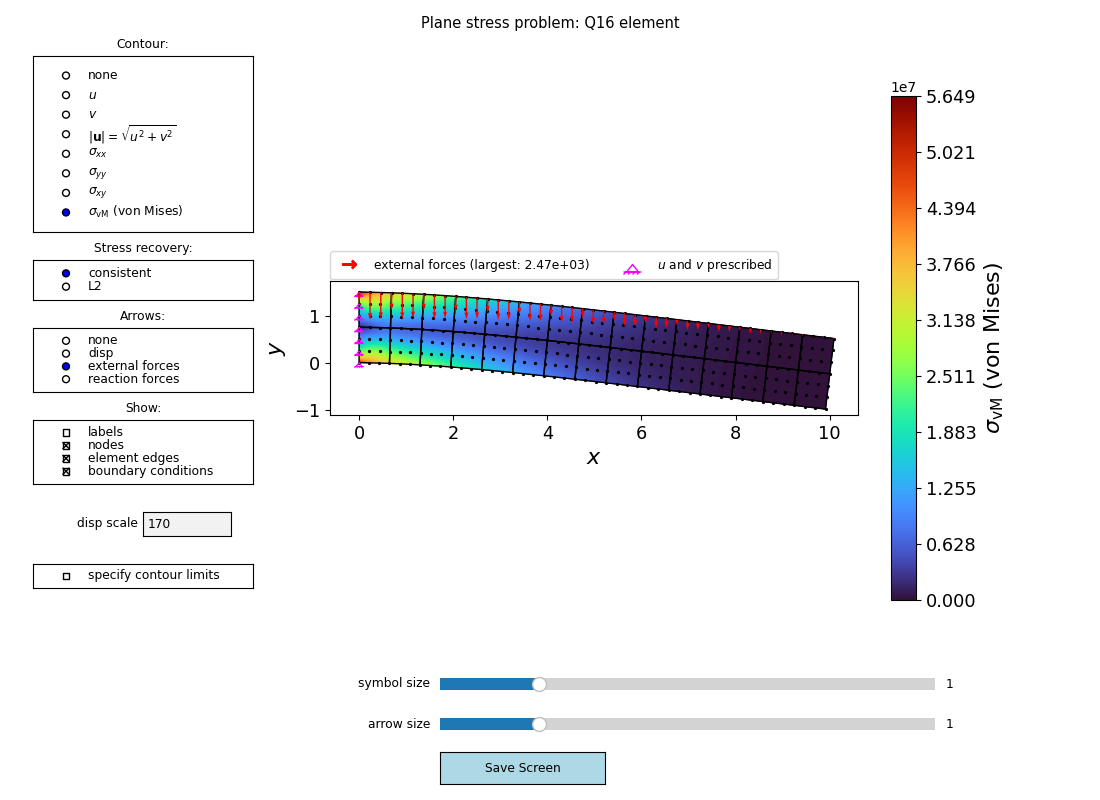
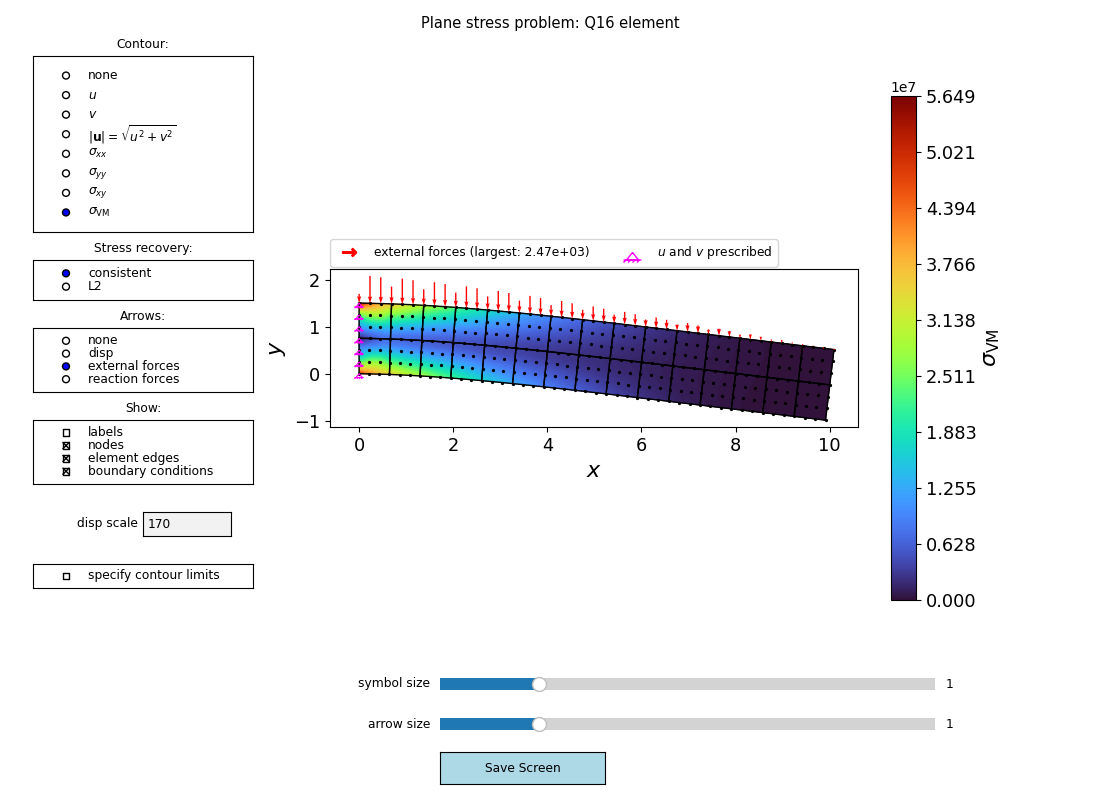
Update

diff --git a/fem/plot_tools.py b/fem/plot_tools.py
@@ -26,7 +26,7 @@ FIELD_LABELS = {
     "sigma_xx": r"$\sigma_{xx}$",
     "sigma_yy": r"$\sigma_{yy}$",
     "sigma_xy": r"$\sigma_{xy}$",
-    "sigma_vm": r"$\sigma_{\mathrm{vM}}$ (von Mises)",
+    "sigma_vm": r"$\sigma_{\mathrm{VM}}$",
     "w": r"$w$",
     "theta_x": r"$\theta_x$",
     "theta_y": r"$\theta_y$",
@@ -57,10 +57,10 @@ GRAY_COLORMAP = mcolors.ListedColormap(["grey"])  #Used when no field is shown
 #====================================================================
 M, L = Path.MOVETO, Path.LINETO  #Move the pen, or draw a line
 BC_SYMBOLS = {
-    "v": (Path([(0, 0), (-0.6, -0.8), (0.6, -0.8), (0, 0), (-0.6, -1), (0.6, -1)], [M, L, L, L, M, L]), 2.8,
-          r"$v$ prescribed"),
-    "u": (Path([(0, 0), (-0.8, 0.6), (-0.8, -0.6), (0, 0), (-1, 0.6), (-1, -0.6)], [M, L, L, L, M, L]), 2.8,
-          r"$u$ prescribed"),
+    "v": (Path([(0, 0), (-0.6, -0.8), (0.6, -0.8), (0, 0), (-0.6, -1), (0.6, -1)],
+               [M, L, L, L, M, L]), 2.8, r"$v$ prescribed"),
+    "u": (Path([(0, 0), (-0.8, 0.6), (-0.8, -0.6), (0, 0), (-1, 0.6), (-1, -0.6)],
+               [M, L, L, L, M, L]), 2.8, r"$u$ prescribed"),
     "u and v": (Path([(0, 0), (-0.6, -0.75), (0.6, -0.75), (0, 0), (-0.9, -0.75), (0.9, -0.75), (-0.9, -1),
                       (-0.65, -0.75), (-0.45, -1), (-0.2, -0.75), (0, -1), (0.25, -0.75), (0.45, -1), (0.7, -0.75)],
                      [M, L, L, L, M, L, M, L, M, L, M, L, M, L]), 2.8, r"$u$ and $v$ prescribed"),
@@ -113,8 +113,8 @@ def create_plot_grid(n):
             triangles.append([point(i, j), point(i + 1, j), point(i + 1, j + 1)])
             triangles.append([point(i, j), point(i + 1, j + 1), point(i, j + 1)])
     #The outline goes counter-clockwise around the element, and ends where it started
-    outline = ([point(i, 0) for i in range(n)] + [point(n, j) for j in range(n)] +
-               [point(n - i, n) for i in range(n)] + [point(0, n - j) for j in range(n + 1)])
+    outline = ([point(i, 0) for i in range(n)] + [point(n, j) for j in range(n)] + [point(n - i, n) for i in range(n)] +
+               [point(0, n - j) for j in range(n + 1)])
     return xi_eta, np.array(triangles), np.array(outline)
 
 
@@ -253,6 +253,38 @@ def get_node_spacing(mesh: Mesh, element_type):
     return shortest_edge / (ELEMENT_TRAITS[element_type].nNl_1D - 1)
 
 
+def calc_outward_normals(mesh: Mesh, element_type):
+    """Returns an outward unit normal for each node on the boundary of the mesh, and NaN for the other nodes.
+    The boundary consists of the element edges that belong to only one element. The normal of a node is the
+    average of the normals of the boundary edges that it lies on (e.g. diagonal at a corner)."""
+    elements = mesh.elements
+    nodes = mesh.nodes
+
+    #Count how many elements each edge belongs to. An edge is given by its two corner nodes (sorted).
+    edge_count = {}
+    for e in range(mesh.get_nE()):
+        for corner_a, corner_b in QUAD_EDGES:
+            edge = tuple(sorted((elements[e, corner_a], elements[e, corner_b])))
+            edge_count[edge] = edge_count.get(edge, 0) + 1
+
+    normals = np.zeros((mesh.get_nN(), 2))
+    for e in range(mesh.get_nE()):
+        for edge_id, (corner_a, corner_b) in enumerate(QUAD_EDGES):
+            I_a, I_b = elements[e, corner_a], elements[e, corner_b]
+            if edge_count[tuple(sorted((I_a, I_b)))] == 1:  #The edge is on the boundary
+                #The corners go counter-clockwise, so the outward normal is the edge turned 90 degrees clockwise
+                dx, dy = nodes[I_b] - nodes[I_a]
+                edge_normal = np.array([dy, -dx]) / np.sqrt(dx**2 + dy**2)
+                for il in ELEMENT_TRAITS[element_type].entity_nodes[ElementEntity(edge_id)]:
+                    normals[elements[e, il]] += edge_normal
+
+    length = np.sqrt(normals[:, 0]**2 + normals[:, 1]**2)
+    on_boundary = length > 0
+    normals[on_boundary] /= length[on_boundary, None]
+    normals[~on_boundary] = np.nan
+    return normals
+
+
 def format_contour_limit(value):
     return f"{value:.3e}"
 
@@ -303,6 +335,7 @@ class Plot:
         self.element_labels = []
         self.bc_markers = []
         self.node_spacing = get_node_spacing(mesh, config.element_type)
+        self.outward_normals = calc_outward_normals(mesh, config.element_type)  #Used to draw forces outside the body
         self.has_center_node = (0, 0) in ELEMENT_TRAITS[config.element_type].xi_eta  #True for Q9
 
         self.field_names = get_field_names(config.problem_type)
@@ -340,12 +373,14 @@ class Plot:
             return ax
 
         self.contour_labels = [FIELD_LABELS[field] for field in self.field_names]
-        self.radio_contour = RadioButtons(get_widget_axes(0.03, 0.2, 0.22), self.contour_labels,
+        self.radio_contour = RadioButtons(get_widget_axes(0.03, 0.2, 0.22),
+                                          self.contour_labels,
                                           active=self.field_names.index(config.contour))
         self.radio_contour.ax.set_title("Contour:")
 
         recovery_options = ["consistent", "L2"]
-        self.radio_recovery = RadioButtons(get_widget_axes(0.03, 0.2, 0.05), recovery_options,
+        self.radio_recovery = RadioButtons(get_widget_axes(0.03, 0.2, 0.05),
+                                           recovery_options,
                                            active=recovery_options.index(config.stress_recovery))
         self.radio_recovery.ax.set_title("Stress recovery:")
 
@@ -353,20 +388,19 @@ class Plot:
         self.radio_arrows = None
         if config.problem_type == ProblemType.PLANE_STRESS:
             arrow_options = ["none", "disp", "external forces", "reaction forces"]
-            self.radio_arrows = RadioButtons(get_widget_axes(0.03, 0.2, 0.08), arrow_options,
+            self.radio_arrows = RadioButtons(get_widget_axes(0.03, 0.2, 0.08),
+                                             arrow_options,
                                              active=arrow_options.index(config.arrow_type))
             self.radio_arrows.ax.set_title("Arrows:")
 
         self.check_buttons = CheckButtons(
-            get_widget_axes(0.03, 0.2, 0.08),
-            ["labels", "nodes", "element edges", "boundary conditions"],
+            get_widget_axes(0.03, 0.2, 0.08), ["labels", "nodes", "element edges", "boundary conditions"],
             [config.show_labels, config.show_nodes, config.show_element_edges, config.show_bcs])
         self.check_buttons.ax.set_title("Show:")
 
         self.box_disp_scale = None
         if config.problem_type == ProblemType.PLANE_STRESS:  #Plates are drawn undeformed
-            self.box_disp_scale = TextBox(get_widget_axes(0.13, 0.08, 0.03), "disp scale ",
-                                          initial=config.disp_scaling)
+            self.box_disp_scale = TextBox(get_widget_axes(0.13, 0.08, 0.03), "disp scale ", initial=config.disp_scaling)
 
         #The contour limit boxes are only shown when "specify contour limits" is ticked (see update)
         self.check_specify_limits = CheckButtons(get_widget_axes(0.03, 0.2, 0.03), ["specify contour limits"],
@@ -374,16 +408,26 @@ class Plot:
         #The min and max boxes are placed next to each other
         bottom_of_row = self.top_of_next_widget - 0.03
         self.box_contour_min = TextBox(plt.axes([0.06, bottom_of_row, 0.065, 0.03]), "min ", initial=config.contour_min)
-        self.box_contour_max = TextBox(plt.axes([0.165, bottom_of_row, 0.065, 0.03]), "max ", initial=config.contour_max)
+        self.box_contour_max = TextBox(plt.axes([0.165, bottom_of_row, 0.065, 0.03]),
+                                       "max ",
+                                       initial=config.contour_max)
 
         #The widgets at the bottom
-        self.slider_symbol_scale = Slider(plt.axes([0.4, 0.13, 0.45, 0.03]), "symbol size", 0, 5,
+        self.slider_symbol_scale = Slider(plt.axes([0.4, 0.13, 0.45, 0.03]),
+                                          "symbol size",
+                                          0,
+                                          5,
                                           valinit=config.symbol_scale)
         self.slider_arrow_scale = None
         if self.radio_arrows is not None:  #Only for plane stress, like the arrows
-            self.slider_arrow_scale = Slider(plt.axes([0.4, 0.08, 0.45, 0.03]), "arrow size", 0, 5,
+            self.slider_arrow_scale = Slider(plt.axes([0.4, 0.08, 0.45, 0.03]),
+                                             "arrow size",
+                                             0,
+                                             5,
                                              valinit=config.arrow_scale)
-        self.save_button = Button(plt.axes([0.4, 0.02, 0.15, 0.04]), "Save Screen", color="lightblue",
+        self.save_button = Button(plt.axes([0.4, 0.02, 0.15, 0.04]),
+                                  "Save Screen",
+                                  color="lightblue",
                                   hovercolor="skyblue")
         self.save_button.on_clicked(self.save_screen)
 
@@ -486,7 +530,10 @@ class Plot:
         self.plot_arrow_field(x_nodes, y_nodes)
         self.plot_bcs(x_nodes, y_nodes)
         if len(self.legend_handles) > 0:  #The legend is placed above the plot, so that it doesn't cover anything
-            self.ax.legend(handles=self.legend_handles, loc="lower left", bbox_to_anchor=(0, 1.01), borderaxespad=0,
+            self.ax.legend(handles=self.legend_handles,
+                           loc="lower left",
+                           bbox_to_anchor=(0, 1.01),
+                           borderaxespad=0,
                            ncol=min(len(self.legend_handles), 2))
 
         self.ax.set_xlabel(r"$x$")
@@ -588,7 +635,9 @@ class Plot:
             for i in range(len(x_nodes)):
                 #The label is placed up and to the right of the node, at a distance set in apply_sizes
                 self.node_labels.append(
-                    self.ax.annotate(str(i), (x_nodes[i], y_nodes[i]), xytext=(0, 0), textcoords="offset points",
+                    self.ax.annotate(str(i), (x_nodes[i], y_nodes[i]),
+                                     xytext=(0, 0),
+                                     textcoords="offset points",
                                      zorder=20))
             #The element numbers are shown in parentheses at the center of the elements (xi = eta = 0). If there is
             #a node at the center (Q9), the number is placed just below it instead (see apply_sizes).
@@ -601,8 +650,13 @@ class Plot:
                 nodeIDs = self.mesh.elements[e, :]
                 center = (N_center @ x_nodes[nodeIDs], N_center @ y_nodes[nodeIDs])
                 self.element_labels.append(
-                    self.ax.annotate(f"({e})", center, xytext=(0, 0), textcoords="offset points", ha="center",
-                                     va=vertical_alignment, zorder=20))
+                    self.ax.annotate(f"({e})",
+                                     center,
+                                     xytext=(0, 0),
+                                     textcoords="offset points",
+                                     ha="center",
+                                     va=vertical_alignment,
+                                     zorder=20))
 
     def plot_bcs(self, x_nodes, y_nodes):
         """Draws a symbol at each node with a boundary condition (see BC_SYMBOLS), and adds them to the legend"""
@@ -640,12 +694,21 @@ class Plot:
             else:
                 fill_color = "none"
                 zorder = 15
-            markers = self.ax.scatter(x_nodes[nodeIDs], y_nodes[nodeIDs], marker=marker, facecolors=fill_color,
-                                      edgecolors="magenta", zorder=zorder)
+            markers = self.ax.scatter(x_nodes[nodeIDs],
+                                      y_nodes[nodeIDs],
+                                      marker=marker,
+                                      facecolors=fill_color,
+                                      edgecolors="magenta",
+                                      zorder=zorder)
             self.bc_markers.append((markers, relative_size))
             self.legend_handles.append(
-                mlines.Line2D([], [], marker=marker, markersize=12 * min(relative_size, 1.2), linestyle="None",
-                              markerfacecolor=fill_color, markeredgecolor="magenta", label=label))
+                mlines.Line2D([], [],
+                              marker=marker,
+                              markersize=12 * min(relative_size, 1.2),
+                              linestyle="None",
+                              markerfacecolor=fill_color,
+                              markeredgecolor="magenta",
+                              label=label))
 
         #Make room for the symbols at the edges of the plot, so that they are not cut off. A symbol reaches half
         #its size (the largest relative size is 2.8) from the node, which is converted to the units of the plot.
@@ -677,20 +740,21 @@ class Plot:
             return
         if config.arrow_type == "disp":
             field_x, field_y = unpack_solution(config, self.solver_data.r)
-            color = "blue"
+            self.plot_arrows(x_nodes, y_nodes, field_x, field_y, "disp", "blue", draw_outside=False)
         elif config.arrow_type == "external forces":
             field_x, field_y = unpack_solution(config, self.solver_data.R_ext)
-            color = "red"
+            self.plot_arrows(x_nodes, y_nodes, field_x, field_y, "external forces", "red", draw_outside=True)
         elif config.arrow_type == "reaction forces":
             field_x, field_y = unpack_solution(config, self.solver_data.R_int - self.solver_data.R_ext)
-            color = "green"
+            self.plot_arrows(x_nodes, y_nodes, field_x, field_y, "reaction forces", "green", draw_outside=True)
         else:
             raise ValueError(f"Unknown arrow type for plotting: {config.arrow_type}")
-        self.plot_arrows(x_nodes, y_nodes, field_x, field_y, config.arrow_type, color)
 
-    def plot_arrows(self, x, y, field_x, field_y, label, color):
-        """Draws the vectors (field_x, field_y) as arrows from the points (x, y). The longest arrow is 5 symbol sizes
-        long, but at least 25 points (times the arrow size slider). The other arrows are scaled in proportion to it."""
+    def plot_arrows(self, x, y, field_x, field_y, label, color, draw_outside):
+        """Draws the vectors (field_x, field_y) as arrows at the points (x, y). The longest arrow is 5 symbol sizes
+        long, but at least 25 points (times the arrow size slider). The other arrows are scaled in proportion to it.
+        If draw_outside is True, arrows at the boundary that point into the body are drawn outside it, with the tip
+        at the node, so that they don't cover the plot (like forces are usually drawn)."""
         magnitude = np.sqrt(field_x**2 + field_y**2)
         if not np.any(magnitude > 0):  #Nothing to draw, e.g. no external forces, or NaN from a singular system
             return
@@ -703,13 +767,36 @@ class Plot:
         longest_arrow = longest_arrow_on_screen / self.get_screen_length_of_unit_length()
         arrow_x = field_x[keep] * longest_arrow / largest
         arrow_y = field_y[keep] * longest_arrow / largest
-        self.ax.quiver(x[keep], y[keep], arrow_x, arrow_y, color=color, zorder=16,  #On top of the support symbols
-                       angles="xy", scale_units="xy", scale=1, units="xy", width=0.05 * longest_arrow)
+
+        start_x = x[keep]
+        start_y = y[keep]
+        if draw_outside:
+            normals = self.outward_normals[keep]  #NaN for nodes that are not on the boundary
+            points_into_body = arrow_x * normals[:, 0] + arrow_y * normals[:, 1] < 0
+            start_x = np.where(points_into_body, start_x - arrow_x, start_x)  #Then the tip ends at the node
+            start_y = np.where(points_into_body, start_y - arrow_y, start_y)
+
+        self.ax.quiver(
+            start_x,
+            start_y,
+            arrow_x,
+            arrow_y,
+            color=color,
+            zorder=16,  #On top of the support symbols
+            angles="xy",
+            scale_units="xy",
+            scale=1,
+            units="xy",
+            width=0.05 * longest_arrow)
         #Make room for arrows that point out of the plot
-        self.ax.update_datalim(np.column_stack([x[keep] + arrow_x, y[keep] + arrow_y]))
+        self.ax.update_datalim(np.column_stack([start_x, start_y]))
+        self.ax.update_datalim(np.column_stack([start_x + arrow_x, start_y + arrow_y]))
 
         #The arrows are scaled, so the legend shows the size of the largest one
         self.legend_handles.append(
-            mlines.Line2D([], [], color=color, marker=r'$\rightarrow$', linestyle='None', markersize=10,
+            mlines.Line2D([], [],
+                          color=color,
+                          marker=r'$\rightarrow$',
+                          linestyle='None',
+                          markersize=10,
                           label=f"{label} (largest: {largest:.2e})"))
-

diff --git a/tests/test_plot_tools.py b/tests/test_plot_tools.py
@@ -375,3 +375,36 @@ def test_plate_applied_load_contour():
     contours = plot_field(ax, config, mesh, solver_data, "applied_load")
     assert contours.get_clim() == pytest.approx((1000.0 + 100.0, 2000.0 + 100.0))
     assert not plot_tools.is_stress_field("applied_load")
+
+
+def test_outward_normals():
+    config = create_config(1.0, 0.3, 1.0, ElementType.Q9, ProblemType.PLANE_STRESS)
+    mesh = create_structured_quad_mesh(config, 2.0, 1.0, 2, 2)
+    normals = plot_tools.calc_outward_normals(mesh, config.element_type)
+    x, y = mesh.nodes[:, 0], mesh.nodes[:, 1]
+    assert normals[mesh.node_sets["north_east"][0]] == pytest.approx([1 / np.sqrt(2), 1 / np.sqrt(2)])
+    middle_of_south_edge = np.where(np.isclose(y, 0.0) & np.isclose(x, 1.0))[0][0]
+    assert normals[middle_of_south_edge] == pytest.approx([0.0, -1.0])
+    inside = (x > 0) & (x < 2) & (y > 0) & (y < 1)
+    assert np.all(np.isnan(normals[inside]))
+
+
+@pytest.mark.parametrize("traction, arrows_start_at_the_edge", [((-1000.0, 0.0), False), ((1000.0, 0.0), True)],
+                         ids=["pushing", "pulling"])
+def test_forces_that_point_into_the_body_are_drawn_outside_it(traction, arrows_start_at_the_edge):
+    """A traction on the east edge (x = 4). Pushing arrows end at the edge, and pulling arrows start at it."""
+    config = create_config(210e9, 0.3, 1.0, ElementType.Q9, ProblemType.PLANE_STRESS)
+    mesh = create_structured_quad_mesh(config, 4.0, 1.0, 4, 2)
+    add_boundary_condition(config, mesh, "west", Dof.U, 0)
+    add_boundary_condition(config, mesh, "west", Dof.V, 0)
+    add_load(config, mesh, "east", LoadType.TRACTION, lambda x, y: traction)
+    solver_data = create_solver_data(config, mesh)
+    solve(config, solver_data, mesh)
+    config.arrow_type = "external forces"
+    config.disp_scaling = 0  #Keep the nodes on the edge
+    plot = plot_tools.Plot(config, mesh, solver_data)
+    arrows = [collection for collection in plot.ax.collections if isinstance(collection, matplotlib.quiver.Quiver)][0]
+    if arrows_start_at_the_edge:
+        assert np.allclose(arrows.X, 4.0)
+    else:
+        assert np.all(arrows.X > 4.0)
